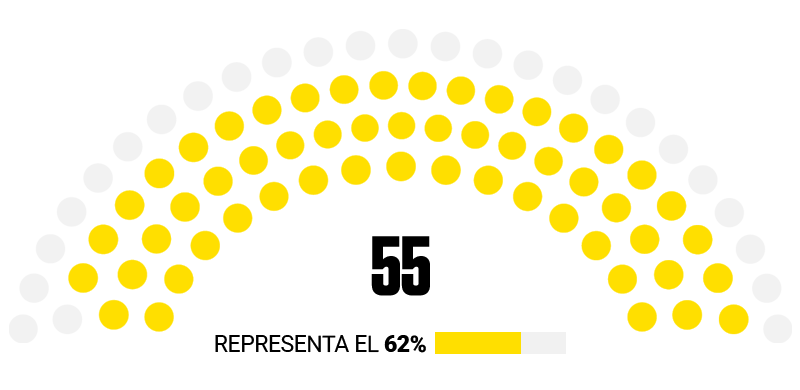
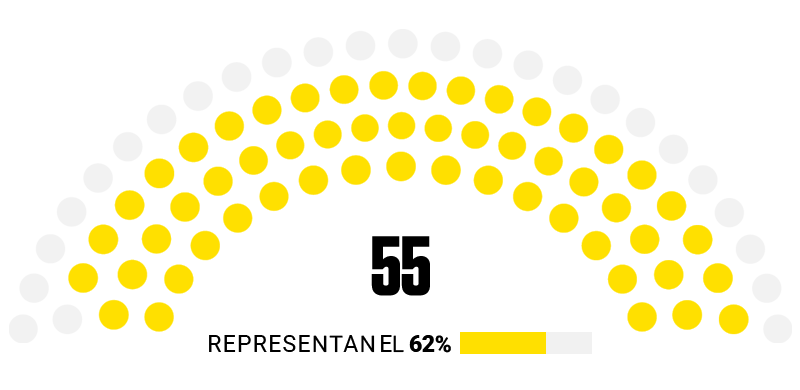
hemiciclos update

Changed region(s): [[0.25, 0.8308, 0.5938, 0.9231], [0.625, 0.8308, 0.6875, 0.9231]]

diff --git a/index.html b/index.html
@@ -319,7 +319,7 @@
          <div class="box-embed" id="conecta">
         <h3 style="text-transform: uppercase;">Red de vínculos públicos</h3>
         <p>
-            Este gráfico interactivo de nodos permite visualizar las relaciones entre congresistas, sus familiares y los contratos u órdenes de servicio registrados en entidades del Estado. La visualización se centra en el periodo comprendido entre el 28 de julio de 2021 y abril de 2025, periodo en el que la Ley de Contrataciones del Estado (Ley N.º 30225) establecía que los congresistas y sus familiares hasta el segundo grado de consanguinidad (padres, hijos, hermanos, abuelos y nietos) y afinidad (suegros, yernos/nueras y cuñados) no podían contratar con el Estado.
+            <strong>Este gráfico interactivo de nodos permite visualizar las relaciones entre congresistas, sus familiares y los contratos u órdenes de servicio registrados en entidades del Estado.</strong> La visualización se centra en el periodo comprendido entre el 28 de julio de 2021 y abril de 2025, periodo en el que la Ley de Contrataciones del Estado (Ley N.º 30225) establecía que los congresistas y sus familiares hasta el segundo grado de consanguinidad (padres, hijos, hermanos, abuelos y nietos) y afinidad (suegros, yernos/nueras y cuñados) no podían contratar con el Estado.
         </p>
         <iframe name="myiFrame" width="100%" height="700px" src="https://nuevasnarrativasec.github.io/grafico-nodos-de-poder/red_congresistas_v2.html" scrolling="no" marginwidth="0" marginheight="0" style="border:0px none #ffffff;"></iframe>
         <p class="fuente-grafico-nodos">
@@ -333,7 +333,7 @@
     <div class="box-main-mapa">
         <h3 style="font-size: 2.1rem;">Distribución geográfica de contrataciones</h3>
         <p>
-            Mapa de las regiones del Perú donde se concentran contratos y órdenes de servicio vinculados a familiares de congresistas (2021–2025). El color de cada región indica el volumen total de contratación. Usa el menú para explorar los datos por congresista o pasa el cursor sobre el mapa para ver el detalle.
+            <strong>Mapa de las regiones del Perú donde se concentran contratos y órdenes de servicio vinculados a familiares de congresistas (2021–2025).</strong> El color de cada región indica el volumen total de contratación. Usa el menú para explorar los datos por congresista o pasa el cursor sobre el mapa para ver el detalle.
         </p>
 
         <div class="layout">
@@ -534,7 +534,7 @@
                 </div>
                 <h3 class="hallazgo-category__title">Intereses cruzados</h3>
             </div>
-            <p class="hallazgo-category__stats">De 89 congresistas que postulan a la reelección, <strong id="count-intereses">0</strong> cuentan con familiares vinculados a contratos u órdenes de servicio con el Estado, considerando registros entre agosto de 2021 y el 21 de abril de 2025, periodo en el que la Ley de Contrataciones del Estado (Ley N.º 30225) establecía que los congresistas y sus familiares hasta el segundo grado de consanguinidad (padres, hijos, hermanos, abuelos y nietos) y afinidad (suegros, yernos/nueras y cuñados) no podían contratar con el Estado.</p>
+            <p class="hallazgo-category__stats">De 89 congresistas que postulan a la reelección, <strong id="count-intereses">0</strong> <strong>cuentan con familiares vinculados a contratos u órdenes de servicio con el Estado,</strong> considerando registros entre agosto de 2021 y el 21 de abril de 2025, periodo en el que la Ley de Contrataciones del Estado (Ley N.º 30225) establecía que los congresistas y sus familiares hasta el segundo grado de consanguinidad (padres, hijos, hermanos, abuelos y nietos) y afinidad (suegros, yernos/nueras y cuñados) no podían contratar con el Estado.</p>
 
             <div class="chart-legend">
                 <div class="chart-legend__item">
@@ -569,7 +569,7 @@
                 </div>
                 <h3 class="hallazgo-category__title">El flujo del dinero</h3>
             </div>
-            <p class="hallazgo-category__stats">De 89 congresistas que postulan a la reelección, <strong id="count-dinero">0</strong> registran diferencias en al menos uno de los tres campos contrastados: ingresos, gastos de campaña u obligaciones tributarias, según la información disponible en registros públicos.</p>
+            <p class="hallazgo-category__stats">De 89 congresistas que postulan a la reelección, <strong id="count-dinero">0</strong> <strong>registran diferencias en al menos uno de los tres campos contrastados: ingresos, gastos de campaña u obligaciones tributarias,</strong> según la información disponible en registros públicos.</p>
 
 
             <div class="synthesis-chart">
@@ -604,7 +604,7 @@
                 </div>
                 <h3 class="hallazgo-category__title">Bienes declarados</h3>
             </div>
-            <p class="hallazgo-category__stats">De 89 congresistas que postulan en el 2026, <strong id="count-bienes">0</strong> registran diferencias entre la información consignada en sus declaraciones y los registros de propiedad disponibles en Sunarp.</p>
+            <p class="hallazgo-category__stats">De 89 congresistas que postulan en el 2026, <strong id="count-bienes">0</strong> <strong>registran diferencias entre la información consignada en sus declaraciones y los registros de propiedad disponibles en Sunarp.</strong></p>
 
             <div class="synthesis-chart">
                 <img src="./img/hemiciclo-3.png" alt="" width="100%">
@@ -639,7 +639,7 @@
                 </div>
                 <h3 class="hallazgo-category__title">Trayectoria académica</h3>
             </div>
-            <p class="hallazgo-category__stats">De los 89 congresistas que postulan en 2026, no se identificaron diferencias entre la información académica declarada y los registros disponibles en Sunedu.</p>
+            <p class="hallazgo-category__stats">De los 89 congresistas que postulan en 2026, <strong>no se identificaron diferencias</strong> entre la información académica declarada y los registros disponibles en Sunedu.</p>
 
             <div class="synthesis-chart">
                 <img src="./img/hemiciclo-4.png" alt="" width="100%">